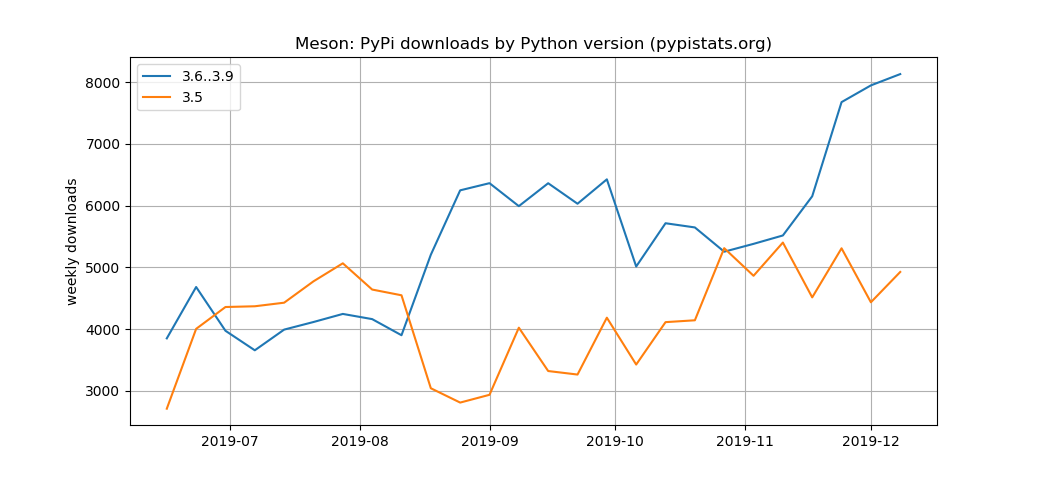
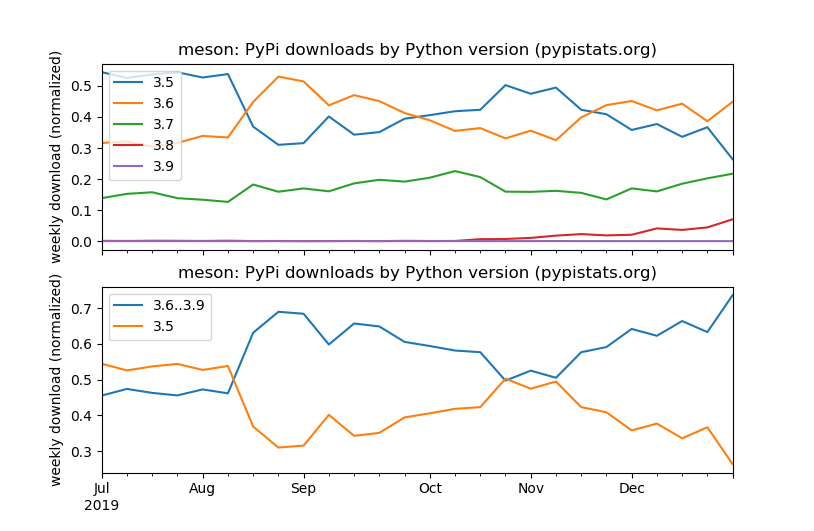
doc
norm plots

diff --git a/plot_pypistats.py b/plot_pypistats.py
@@ -1,4 +1,7 @@
 #!/usr/bin/env python
+"""
+Plots Python package stats by Python version.
+"""
 import pypistats as ps
 from matplotlib.pyplot import figure, show
 import argparse
@@ -29,26 +32,25 @@ if __name__ == "__main__":
     P = p.parse_args()
 
     dat = download_stats(P.projname)
-    weekly = dat.resample("1W").sum()
+    weekly_all = dat.resample("1W").sum()
+    weekly = weekly_all[["3.5", "3.6", "3.7", "3.8", "3.9"]]
+    total = weekly.sum(axis=1)
+    normed = (weekly.T / total).T
 
-    fg = figure(1)
-    fg.clf()
-    ax = fg.gca()
-    weekly.plot(ax=ax)
-    ax.set_title("Meson: PyPi downloads by Python version (pypistats.org)")
-    ax.set_ylabel("weekly downloads")
+    fg = figure()
+    axs = fg.subplots(2, 1, sharex=True)
+    normed.plot(ax=axs[0])
+    axs[0].set_title(f"{P.projname}: PyPi downloads by Python version (pypistats.org)")
+    axs[0].set_ylabel("weekly download (normalized)")
 
-    lost = weekly["3.5"]
-    current = weekly[["3.6", "3.7", "3.8", "3.9"]].sum(axis=1)
+    lost = normed["3.5"]
+    current = normed[["3.6", "3.7", "3.8", "3.9"]].sum(axis=1)
 
-    fg2 = figure(2)
-    fg2.clf()
-    ax = fg2.gca()
-    ax.plot(current, label="3.6..3.9")
-    ax.plot(lost, label="3.5")
-    ax.set_title("Meson: PyPi downloads by Python version (pypistats.org)")
-    ax.set_ylabel("weekly downloads")
-    ax.grid(True)
+    ax = axs[1]
+    current.plot(ax=ax, label="3.6..3.9")
+    lost.plot(ax=ax, label="3.5")
+    ax.set_title(f"{P.projname}: PyPi downloads by Python version (pypistats.org)")
+    ax.set_ylabel("weekly download (normalized)")
     ax.legend()
 
     show()

diff --git a/CODE_OF_CONDUCT.md b/CODE_OF_CONDUCT.md
@@ -1,0 +1,76 @@
+# Contributor Covenant Code of Conduct
+
+## Our Pledge
+
+In the interest of fostering an open and welcoming environment, we as
+contributors and maintainers pledge to making participation in our project and
+our community a harassment-free experience for everyone, regardless of age, body
+size, disability, ethnicity, sex characteristics, gender identity and expression,
+level of experience, education, socio-economic status, nationality, personal
+appearance, race, religion, or sexual identity and orientation.
+
+## Our Standards
+
+Examples of behavior that contributes to creating a positive environment
+include:
+
+* Using welcoming and inclusive language
+* Being respectful of differing viewpoints and experiences
+* Gracefully accepting constructive criticism
+* Focusing on what is best for the community
+* Showing empathy towards other community members
+
+Examples of unacceptable behavior by participants include:
+
+* The use of sexualized language or imagery and unwelcome sexual attention or
+ advances
+* Trolling, insulting/derogatory comments, and personal or political attacks
+* Public or private harassment
+* Publishing others' private information, such as a physical or electronic
+ address, without explicit permission
+* Other conduct which could reasonably be considered inappropriate in a
+ professional setting
+
+## Our Responsibilities
+
+Project maintainers are responsible for clarifying the standards of acceptable
+behavior and are expected to take appropriate and fair corrective action in
+response to any instances of unacceptable behavior.
+
+Project maintainers have the right and responsibility to remove, edit, or
+reject comments, commits, code, wiki edits, issues, and other contributions
+that are not aligned to this Code of Conduct, or to ban temporarily or
+permanently any contributor for other behaviors that they deem inappropriate,
+threatening, offensive, or harmful.
+
+## Scope
+
+This Code of Conduct applies both within project spaces and in public spaces
+when an individual is representing the project or its community. Examples of
+representing a project or community include using an official project e-mail
+address, posting via an official social media account, or acting as an appointed
+representative at an online or offline event. Representation of a project may be
+further defined and clarified by project maintainers.
+
+## Enforcement
+
+Instances of abusive, harassing, or otherwise unacceptable behavior may be
+reported by contacting the project team at info@scivision.dev. All
+complaints will be reviewed and investigated and will result in a response that
+is deemed necessary and appropriate to the circumstances. The project team is
+obligated to maintain confidentiality with regard to the reporter of an incident.
+Further details of specific enforcement policies may be posted separately.
+
+Project maintainers who do not follow or enforce the Code of Conduct in good
+faith may face temporary or permanent repercussions as determined by other
+members of the project's leadership.
+
+## Attribution
+
+This Code of Conduct is adapted from the [Contributor Covenant][homepage], version 1.4,
+available at https://www.contributor-covenant.org/version/1/4/code-of-conduct.html
+
+[homepage]: https://www.contributor-covenant.org
+
+For answers to common questions about this code of conduct, see
+https://www.contributor-covenant.org/faq

diff --git a/README.md b/README.md
@@ -1,7 +1,18 @@
 # pypistats-plots
 
 Plots using [pypistats API](https://github.com/hugovk/pypistats).
-As it is currently, the API seems to be more "printing tables" oriented rather than "comparing plots" oriented.
+As it is currently, the PyPiStats API seems to be more "printing tables" oriented rather than "comparing plots" oriented.
+Thus we created this script to plot data instead.
 Our first interest in creating this addendum project was to gauge relative use of minor Python versions to decide when to cutoff EOL Python versions e.g. Python 3.5.
 
 ![Meson weekly](./data/Meson_weekly_pypi.png)
+
+## Usage
+
+There is no install--just run the script like:
+
+```sh
+python plot_pypistats.py meson
+```
+
+to plot statistics on PyPi package "Meson"
